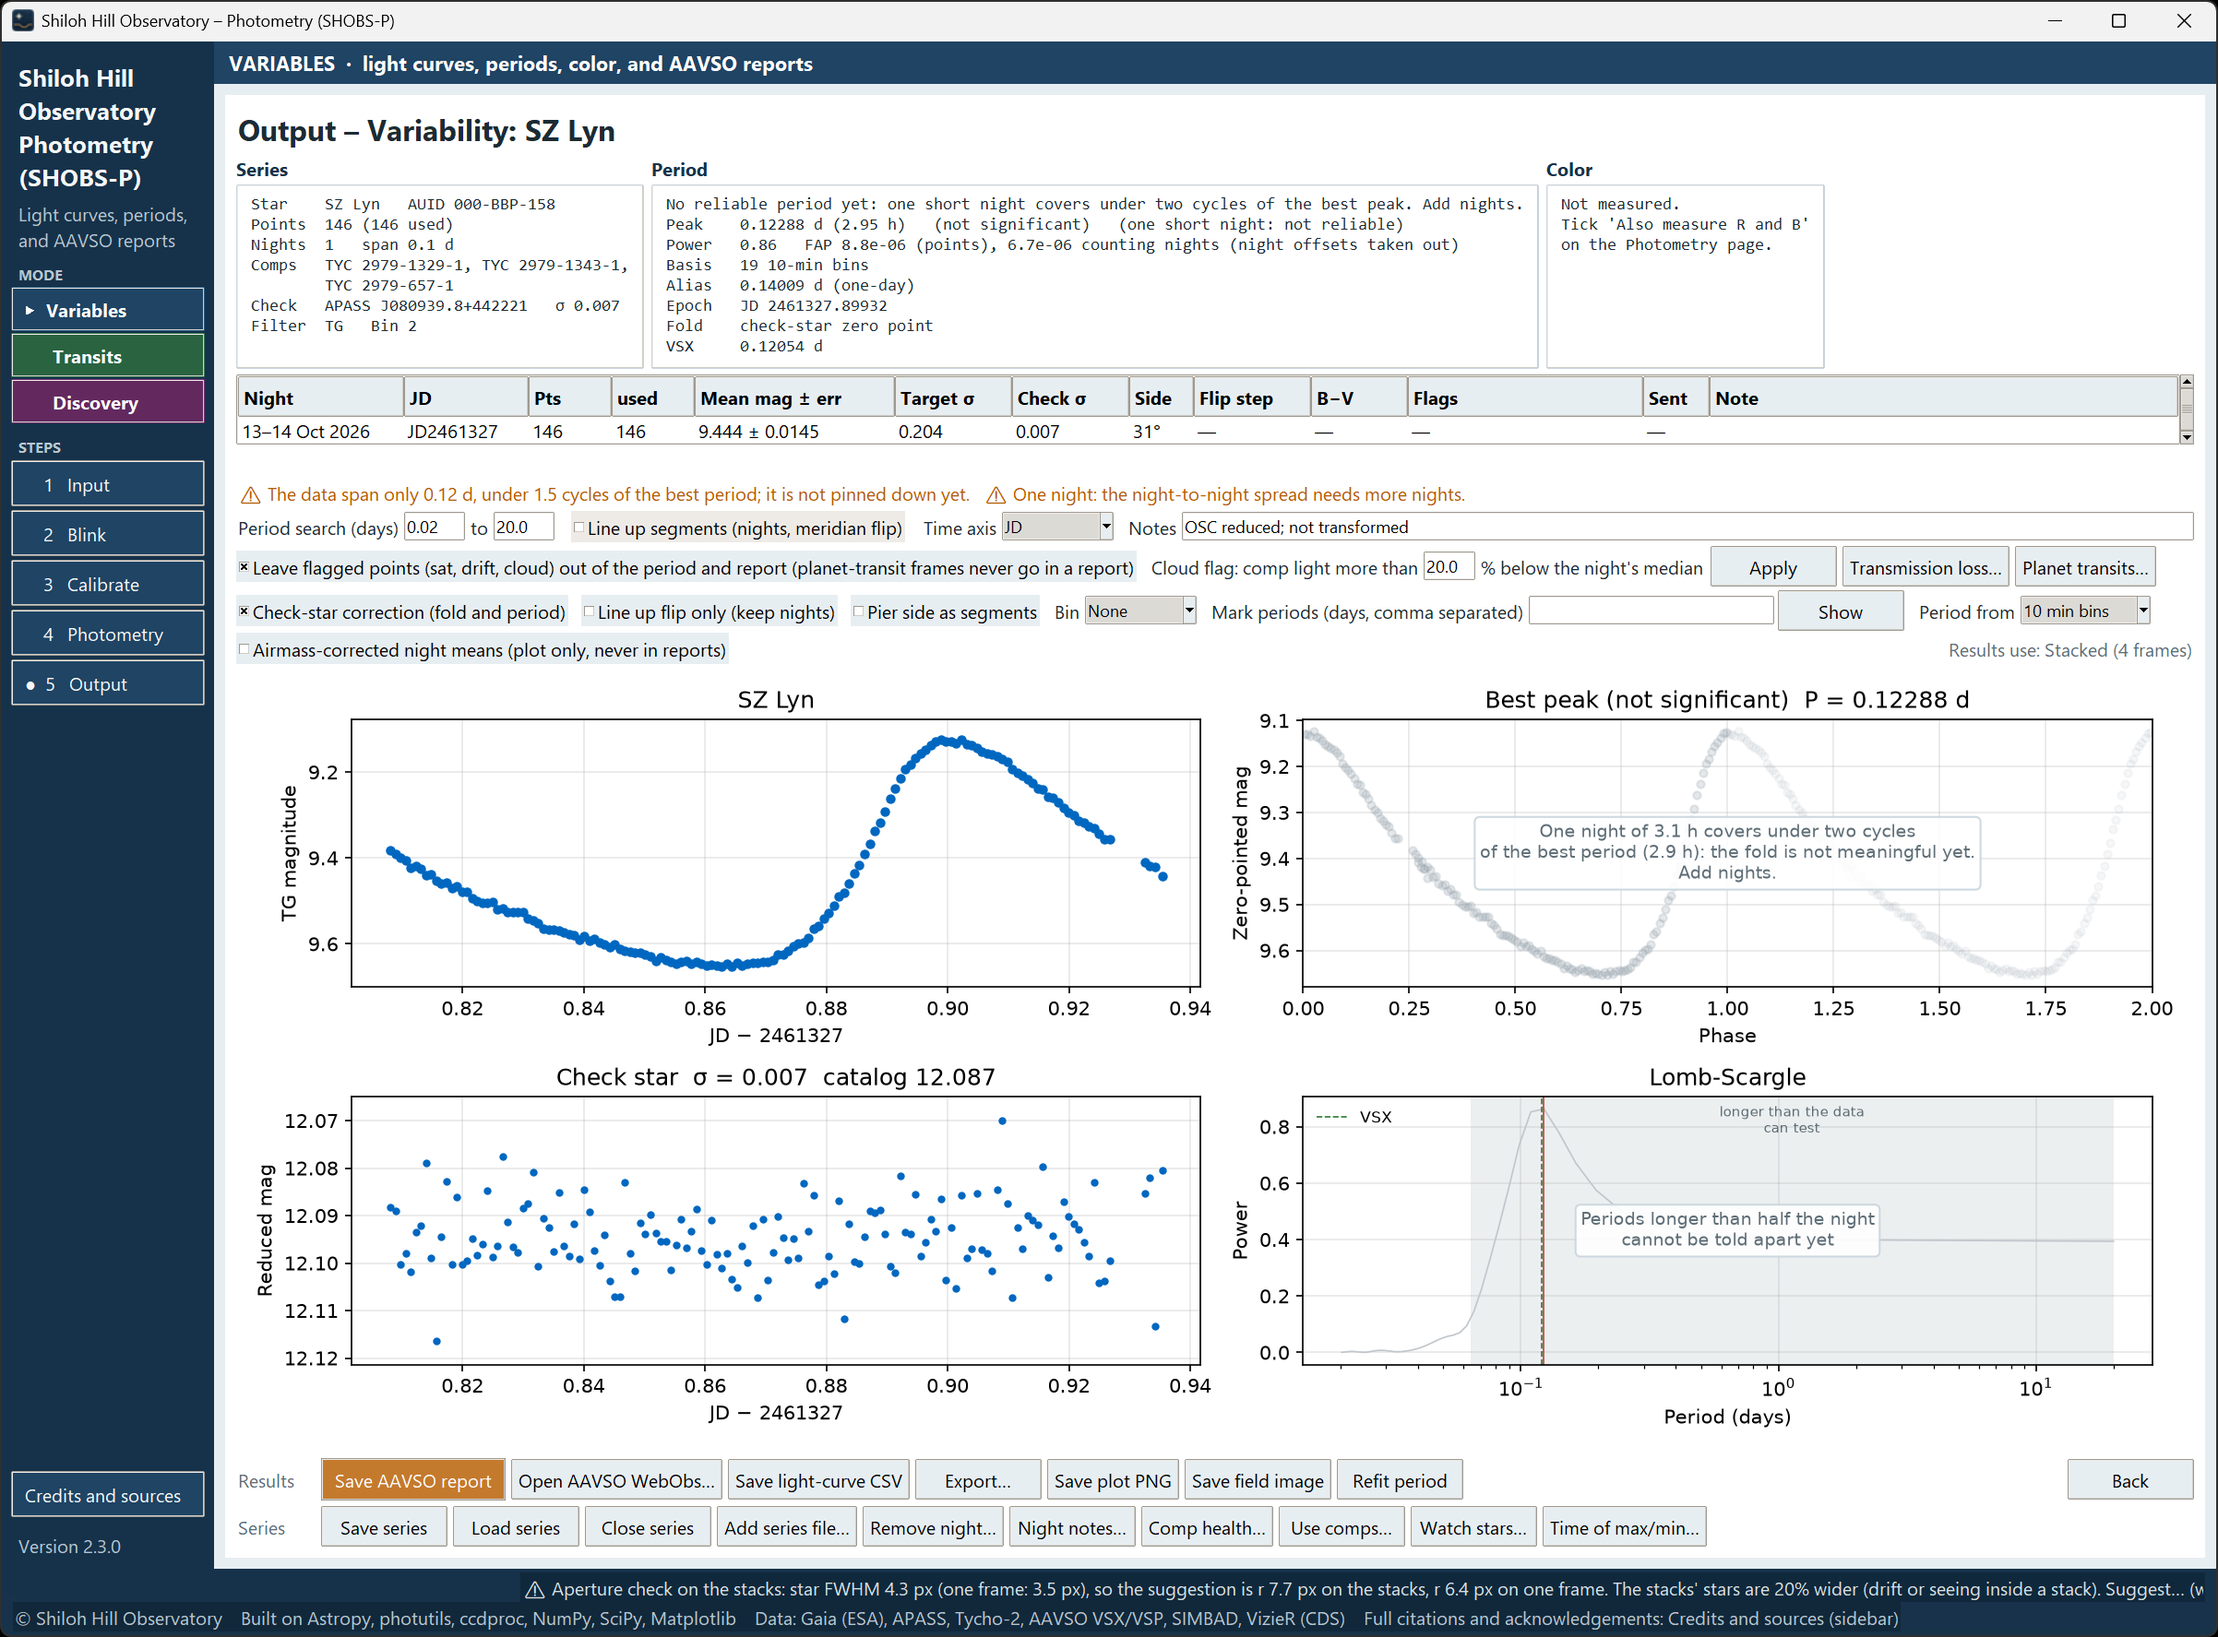
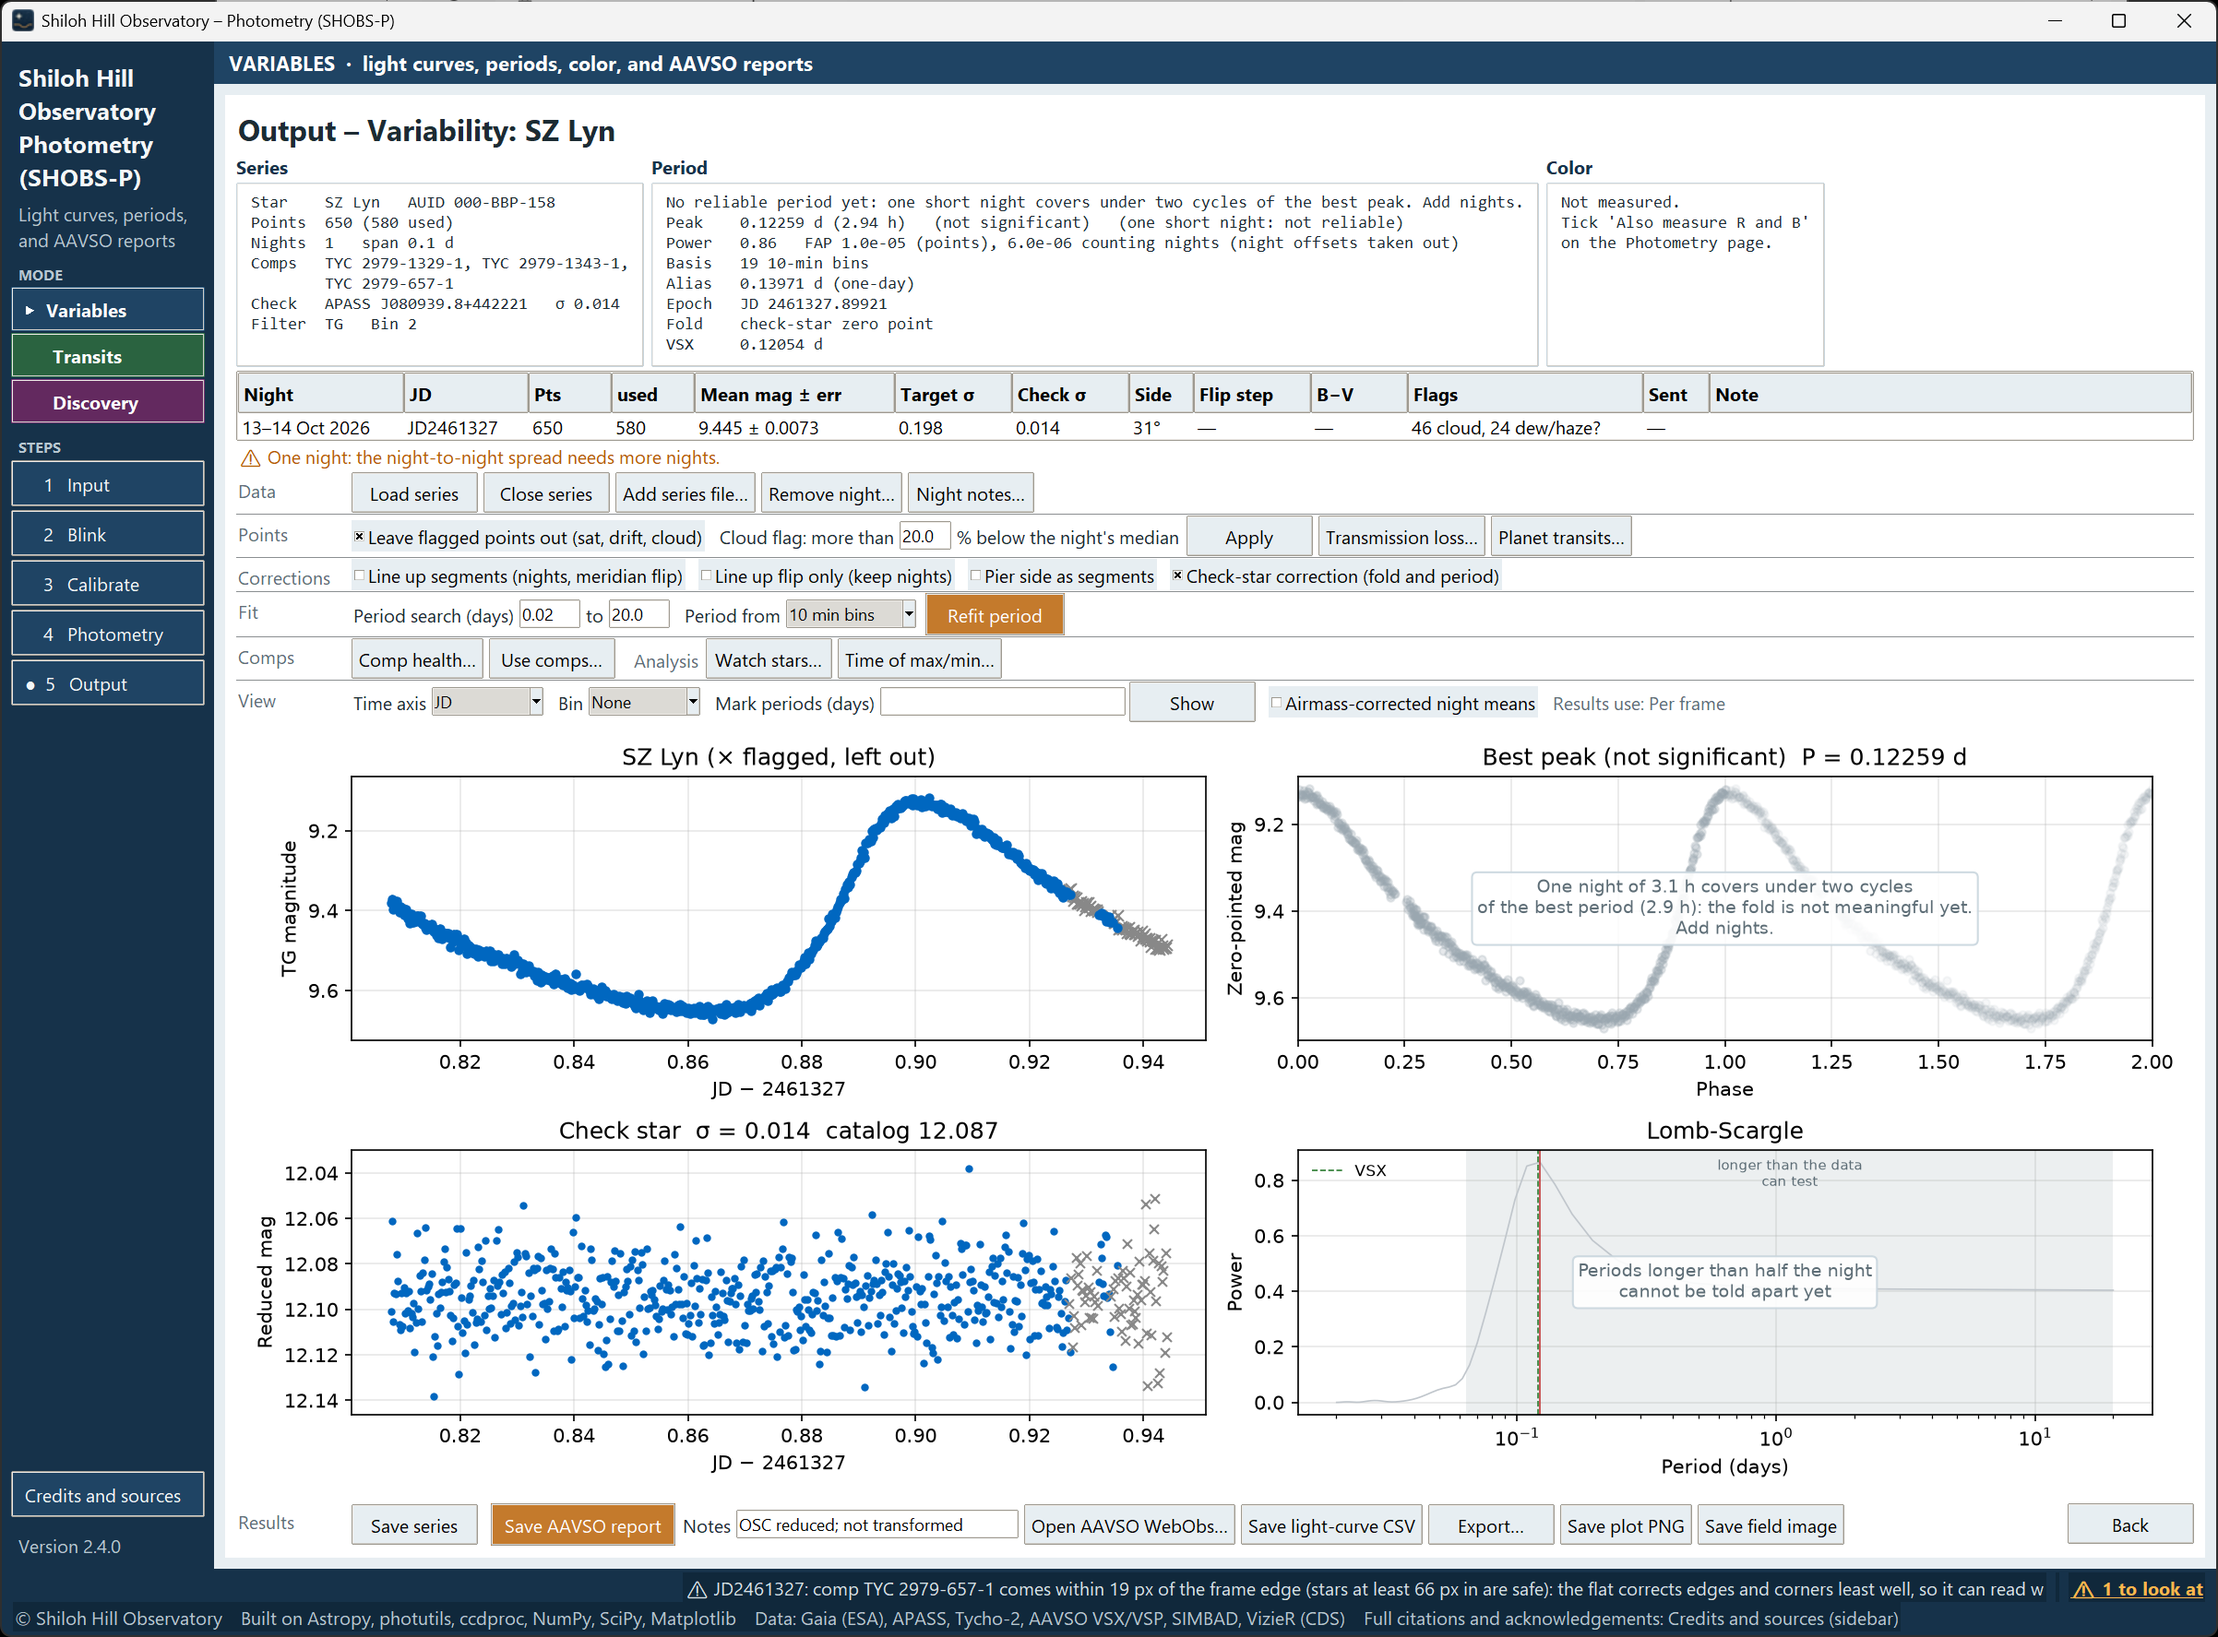
2.4.0 manual reshoots (build-240 steps 1+2): 19 shots retaken, 3 new (03-findings, 15-chart-id-question, 17-refit-needed); notes in _reshoots_240_a/b/c.md; left: 15-webobs-offer + 09-field-image-saved (AAVSO chart 500), 15-no-auid
Claude-Session: https://claude.ai/code/session_01FUz9tJRLobY69kEECSu3PH

diff --git a/docs/manual/_reshoots_240_a.md b/docs/manual/_reshoots_240_a.md
@@ -40,3 +40,26 @@ New shots worth adding (not in the manual yet):
 | img/17-refit-needed.png | Transit fit page with "Refit (settings changed)" on the Fit button and the fit's numbers gray (chapter 17) |
 | img/17-no-airmass.png | Corrections row with airmass grayed out and "no airmass: site not set" (chapter 17) |
 | img/09-field-image-saved.png | Results row after Save AAVSO report: "Field image saved ✓" grayed out (chapters 9 / 15) |
+
+## Done 17 Nov 2026 (build-240 9d8e660, example site 40/−100, Claude via computer use, 2404×1775)
+
+RESHOT: 09-output-page (SZ Lyn 13–14 Oct, Bin 2, per frame: the old shot was stacked 4, nothing in ch 9 depends on it),
+10-series-output (scrubbed HD 219134 example series, Bin Night), 10-night-zoom (6–7 Oct clicked), 12-flagged-points
+(crop of the SZ Lyn page: rows are in it), 13-period (crop of the HD 219134 page: rows are in it), 17-transit-fit-page
+(TOI-2046 b 20–21 Oct, same numbers as 2.3.6), 17-exoclock-buttons, 17-trim (19:16–19:37), 17-flip-step (HD 189733 b
+0723 reduced fresh at 203 mm: depth 2.65 %, flip step −20.0 ± 1.4 ppt kept, ΔBIC 373; validation 2.64 / −20.2),
+18-inconclusive-verdict (K2-113 b report, same numbers), 19-exotic-side-by-side (TrES-3 b EXOTIC 04-SEP, Tc .64756 as
+before; see nit below). NEW: 17-refit-needed.
+
+LEFT: 15-webobs-offer and NEW 09-field-image-saved: apps.aavso.org answered 500 for the AAVSO chart all session, so the
+Results row shows "Fetch AAVSO chart" instead of "Field image saved ✓"; retake once the chart comes back.
+15-no-auid: ASASSN-V J185009.93+281035.4 now has an AUID, so the No AUID line no longer appears; needs another star
+without an AUID (or keep the 2.3.6 shot with a note).
+SKIPPED (optional): 17-no-airmass: with the TOI-2046 series loaded, airmass stayed available after blanking the site
+(the series carries each night's site), so the grayed state did not show.
+
+NITS FOUND: (1) after closing an EXOTIC/SHOBS-P report and reopening another, the TOI-2046 b TOI and ExoClock lines stay
+under the Results row (they belong to the photometry night, not the report); visible in 19-exotic-side-by-side, so
+retake that shot after the fix. (2) With the K2-113 b report still open on the Transit page, New reduction + HD 189733 b
+on the Input page, Run photometry warned "No transit of K2-113 b is predicted during these lights": the run used the
+open report's planet, not the Input page's. The report page also still said "Your TOI-2046 b photometry is kept".

diff --git a/docs/manual/_reshoots_240_b.md b/docs/manual/_reshoots_240_b.md
@@ -18,3 +18,14 @@ question (#95) and the new target lines (#99, #94) change words, not layouts. No
 | NEW (optional) img/17-no-site-question.png | 17 | **No site is set, so the transit fit can't run.** with its two buttons | new shot, if wanted |
 | every shot of the Photometry page (img/08-*, img/09-marked-stars.jpg, img/20-discovery-photometry.jpg, img/23-edge-caution.png, and any other with the dark log under the image) | 03, 08, 09, 20, 23 | John, 16 Nov: the log under the image starts hidden; the run row's button reads **Show log** and the image is taller | RESHOOT (with the log hidden, as a new install shows it) |
 | all others | | nothing of builder B's in view | reuse |
+
+## Done 17 Nov 2026 (build-240 9d8e660, example site, Log hidden as a new install shows it)
+
+RESHOT: 05-input-page (no Chart ID row; Output path shown as C:/Users/you/Documents/SHOBS-P output),
+08-photometry-solved.jpg, 09-marked-stars.jpg (comps 109/115/117, check 121; chart X43370BXZ line), 08-stars-panel
+(scrubbed SZ Lyn example series, two comps + check, "AAVSO chart ID: X43296GX (from the saved series) Edit…"),
+20-discovery-photometry.jpg (NGC 7789 21–22 Oct, Bin 1; Circles = AAVSO sequence, since APASS answered 6684 stars today
+and buried the image). NEW: 15-chart-id-question.
+CHECKED, REUSED: 03-window-parts (shows Calibrate, not the AAVSO box), 06-blink-page, 08-stack-row and
+08-points-stacked (crops without the Stars panel or the log), 23-edge-caution (a message box).
+NOT TAKEN (optional): 17-no-site-question.

diff --git a/docs/manual/_reshoots_240_c.md b/docs/manual/_reshoots_240_c.md
@@ -11,3 +11,10 @@ anything needs a look, and the new **Findings** window. The status line's end-of
 | img/23-edge-caution.png | 23 | status strip at the bottom in view? then the **⚠ … to look at** link | CHECK, reshoot if the status strip shows a ⚠ |
 | any shot whose status line shows *⚠ N things need a look (see the Log)* | any | the words are now *(click to see them)*, and the link shows at the right | RESHOOT |
 | all others | | nothing of step 2's in view | reuse |
+
+## Done 17 Nov 2026
+
+NEW 03-findings: taken after the SZ Lyn run (one ⚠: comp TYC 2979-657-1 19 px from the frame edge). A ✖ (failed save)
+could not be produced on purpose: an unusable Output folder falls back to a Save dialog, so the shot has one ⚠ only;
+the chapter 3 caption does not promise more. 03-busy-bar: no link mid-run, reused. 23-edge-caution: a message box, no
+status strip, reused. The "⚠ 1 to look at" link shows in 09-output-page, 17-flip-step and 18 as it appears in real use.
